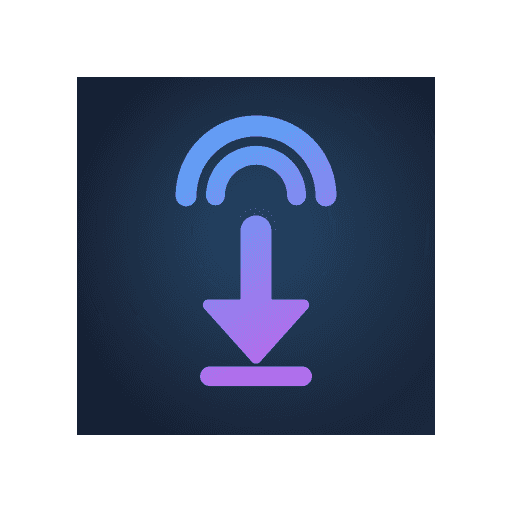
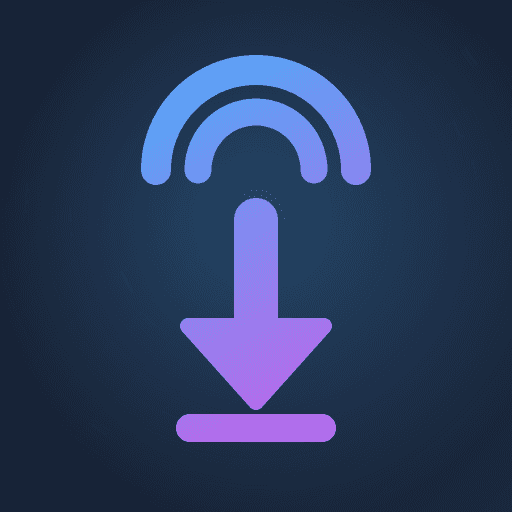
feat: update PWA assets and configuration for transparent backgrounds

diff --git a/services/frontend/pwa-assets.config.ts b/services/frontend/pwa-assets.config.ts
@@ -1,13 +1,18 @@
 import { defineConfig, minimal2023Preset } from '@vite-pwa/assets-generator/config';
 
 /*
- * `minimal-2023` pads the maskable and Apple icons with sharp's default white,
- * which shows as a pale ring wherever a launcher masks the icon to a circle.
- * The source art is already a full-bleed square with its glyph inside the safe
- * zone, so those two variants are padded with the app's own background instead.
+ * Nothing here is padded, and that is the point.
  *
- * Regenerate with `npm run pwa:assets`; the results are committed, so a normal
- * build never needs this file or the generator.
+ * `minimal-2023` insets the plain icons by 5% and pads Apple and maskable with
+ * sharp's default white — which lands on a home screen as a pale frame around
+ * the tile. Padding the maskable variant is also only useful when the artwork
+ * runs to the canvas edge: it shrinks the art into the safe zone and fills the
+ * gap with a flat colour, which here shows as a square seam against the art's
+ * own gradient. The safe zone is already respected by the source itself, so
+ * every variant is a full-bleed render and only the declared purpose differs.
+ *
+ * Regenerate with `npm run pwa:assets`; the results are committed, so an ordinary
+ * build needs neither this file nor the generator.
  */
 const background = '#0f172a';
 
@@ -15,13 +20,29 @@ export default defineConfig({
   headLinkOptions: { preset: '2023' },
   preset: {
     ...minimal2023Preset,
+    /*
+     * Spelled out rather than spread from the preset: `minimal2023Preset`
+     * defines no `resizeOptions`, the generator's own default background is
+     * white, and omitting `fit` would drop it.
+     *
+     * `padding: 0` leaves the resize nothing to letterbox, so these colours
+     * never reach the file today — they are what would show if a future source
+     * were not square, and neither variant may fall back to the white default.
+     */
+    transparent: {
+      ...minimal2023Preset.transparent,
+      padding: 0,
+      resizeOptions: { fit: 'contain', background: 'transparent' },
+    },
     maskable: {
       ...minimal2023Preset.maskable,
-      resizeOptions: { ...minimal2023Preset.maskable.resizeOptions, background },
+      padding: 0,
+      resizeOptions: { fit: 'contain', background },
     },
     apple: {
       ...minimal2023Preset.apple,
-      resizeOptions: { ...minimal2023Preset.apple.resizeOptions, background },
+      padding: 0,
+      resizeOptions: { fit: 'contain', background },
     },
   },
   images: ['public/favicon.svg'],

diff --git a/services/frontend/docs/pwa.md b/services/frontend/docs/pwa.md
@@ -73,10 +73,20 @@ so it survives a launcher masking it to a circle. The rest are generated and com
 npm run pwa:assets
 ```
 
-`pwa-assets.config.ts` overrides the `minimal-2023` preset's padding colour, which otherwise
-defaults to white and shows as a pale ring around a dark icon. **A normal build never runs the
-generator** — it reads the committed PNGs — so changing the artwork is a deliberate two-step:
-edit the SVG, regenerate, commit both.
+`pwa-assets.config.ts` sets `padding: 0` on every variant, which is the whole of its purpose.
+The `minimal-2023` preset insets the plain icons by 5% and pads Apple and maskable with sharp's
+default white; both show up on a home screen as a frame around the tile. Padding the maskable
+variant is only useful when the artwork runs to the canvas edge — it shrinks the art into the
+safe zone and fills the gap from a flat colour, which here would cut a square seam across the
+art's own gradient. The source already keeps the glyph inside the safe zone, so a full-bleed
+render is safe and only the declared `purpose` differs between the files. Note that the preset
+defines no `resizeOptions` at all, so they are written out by hand: spreading the missing object
+would silently drop `fit`.
+
+**A normal build never runs the generator** — it reads the committed PNGs — so changing the
+artwork is a deliberate two-step: edit the SVG, regenerate, commit both. Writing a config change
+without re-running `npm run pwa:assets` changes nothing on disk, which is worth knowing because
+the committed images are what actually ship.
 
 ## HTTPS
 
